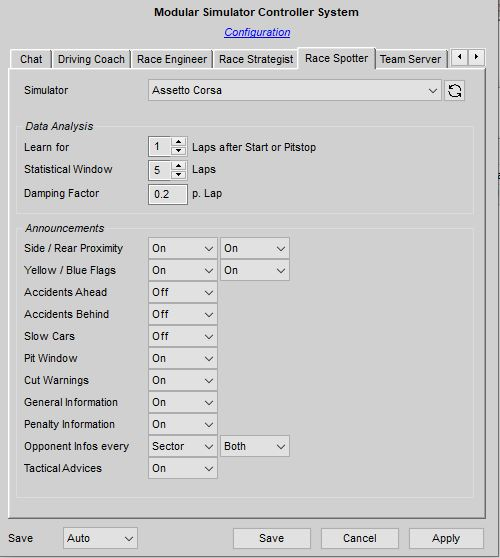
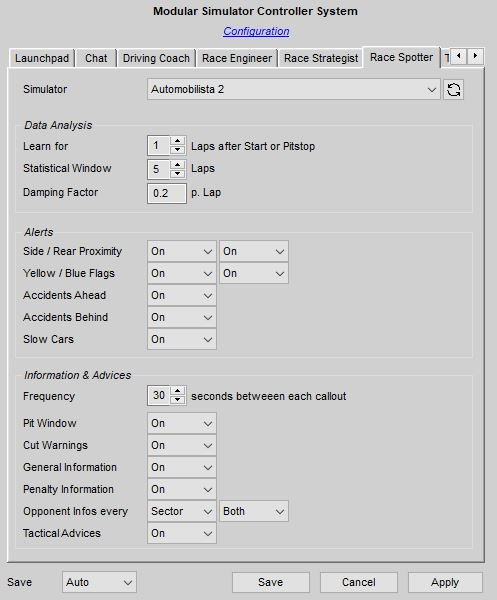
Update Frequency for Spotter Part 2

Changed region(s): [[0.0, 0.0, 1.0, 1.0], [0.2716, 0.2133, 0.6338, 0.3656], [0.5433, 0.7921, 0.5734, 0.853]]

diff --git a/Docs/Installation & Configuration.md b/Docs/Installation & Configuration.md
@@ -607,7 +607,7 @@ You can customize some parts of the statistical algorithms of Elisa, the Virtual
 
 Note: The settings for loading and saving the *Race Settings* specified on *Race Engineer* tab apply for the Virtual Race Spotter as well, as long as no other Assistants are active.
 
-In the second group of fields labeled *Announcements*, you can enable or disable the individual messages and announcements of Elisa for the driver. If you don't like, for example, the alerts of Elisa that another car is directly behind you, you can simply switch it off. Most announcements can only be enabled or disabled, but for the periodic distance information regarding your direct opponents you can set the number of laps between each update as well. You can even choose an update each sector, if you want the Spotter to be really verbose. For more information about the individual announcements and alerts, please see the [Spotter documentation](https://github.com/SeriousOldMan/Simulator-Controller/wiki/Virtual-Race-Spotter#alerts--information).
+Below you will find the groups *Alerts* and *Information & Advices*. There you can enable or disable the individual warnings, messages and announcements of Elisa for the driver. If you don't like, for example, the alerts of Elisa that another car is directly behind you, you can simply switch it off. Most callouts can only be enabled or disabled, but for the periodic distance information regarding your direct opponents you can set the number of laps between each update as well. You can even choose an update each sector, if you want the Spotter to be really verbose. For more information about the individual announcements and alerts, please see the [Spotter documentation](https://github.com/SeriousOldMan/Simulator-Controller/wiki/Virtual-Race-Spotter#alerts--information). Beside that, you can set a minimum time, Elisa waits before contacting you again with the next information or advice.
 
 Good to know: The little button on the right side of the Simulator dropdown menu lets you replicate the current settings for the chosen simulator to all other simulators.
 

diff --git a/README.md b/README.md
@@ -49,7 +49,7 @@ Please read the [Release Notes](https://github.com/SeriousOldMan/Simulator-Contr
 
 #### Latest development build
 
-[5.6.7.0-dev](https://www.dropbox.com/scl/fi/wuo27qsmf8ad6ertb30kn/Simulator-Controller-5.6.7.0-dev.zip?rlkey=yed1db9kexmo50lqdxf5866cf&dl=1) (Early build for 5.6.7. Changes: Added Debug code to detect localization problems for simulators, Display active startup profile in "Simulator Startup", Spotter starts track mapping after end of the first lap, Finished sessions will stay at least a week untouched on the Team Server, Removed "Save Session" from "Race Center" and "Practice Center", Accident detection tweaks, Better detection of active replay in iRacing, Fixed session info page in "System Monitor" when one or more Assistants are deactivated, Fixed "NextPitstop" action in autonomous mode.)
+[5.6.7.0-dev](https://www.dropbox.com/scl/fi/wuo27qsmf8ad6ertb30kn/Simulator-Controller-5.6.7.0-dev.zip?rlkey=yed1db9kexmo50lqdxf5866cf&dl=1) (Early build for 5.6.7. Changes: Added Debug code to detect localization problems for simulators, Display active startup profile in "Simulator Startup", Spotter starts track mapping after end of the first lap, Finished sessions will stay at least a week untouched on the Team Server, Removed "Save Session" from "Race Center" and "Practice Center", Accident detection tweaks, Better detection of active replay in iRacing, Fixed session info page in "System Monitor" when one or more Assistants are deactivated, Fixed "NextPitstop" action in autonomous mode, Configuration for callout frequency of the Spotter.)
 
 Please read the [Release Notes](https://github.com/SeriousOldMan/Simulator-Controller/wiki/Release-Notes) and - even more important - the release specific [Update Notes](https://github.com/SeriousOldMan/Simulator-Controller/wiki/Update-Notes#release-567) of this version and all the versions you might have skipped, before installing and using this version.
 

diff --git a/Docs/Releases.md b/Docs/Releases.md
@@ -7,9 +7,10 @@
   6. The Spotter now starts track mapping immediately after the end of the first lap.
   7. Finished sessions will stay at least a week untouched on the Team Server.
   8. Removed "Save Session" from "Race Center" and "Practice Center", which was confusing to many users. You now always save a copy to your local hard drice.
-  9. And again some accident detection tweaks for the Spotter
+  9. Again some accident detection tweaks for the Spotter
   10. Replays in iRacing will now pause the telemetry acquisition.
-  11. Fixed session info page in "System Monitor" when one or more Assistants are not active.
+  11. The data on the session info page in the "System Monitor" will now be as correct as possible also in team races, even when one or more Assistants are not active for a given driver.
+  12. The frequency of information and advice callouts can now be configured for the Race Spotter. Please see the [revised documentation](https://github.com/SeriousOldMan/Simulator-Controller/wiki/Installation-&-Configuration#tab-race-spotter) for more information.
 
 ## 5.6.6.0-release 04/12/24
   1. Minor bugfixes, as always
